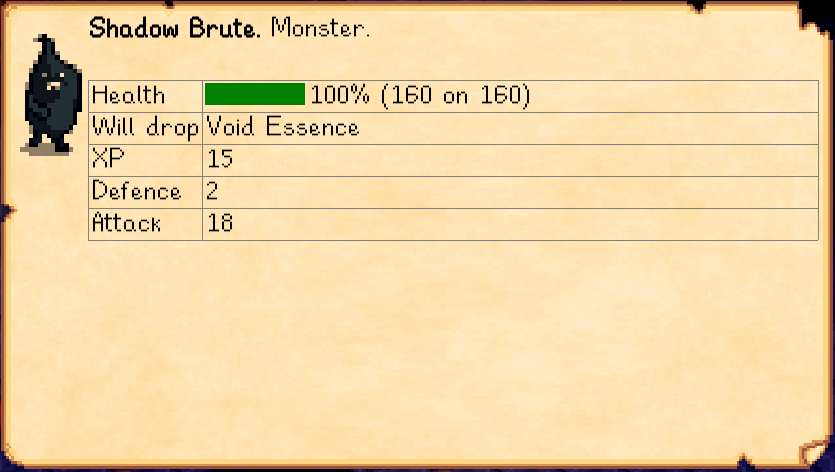
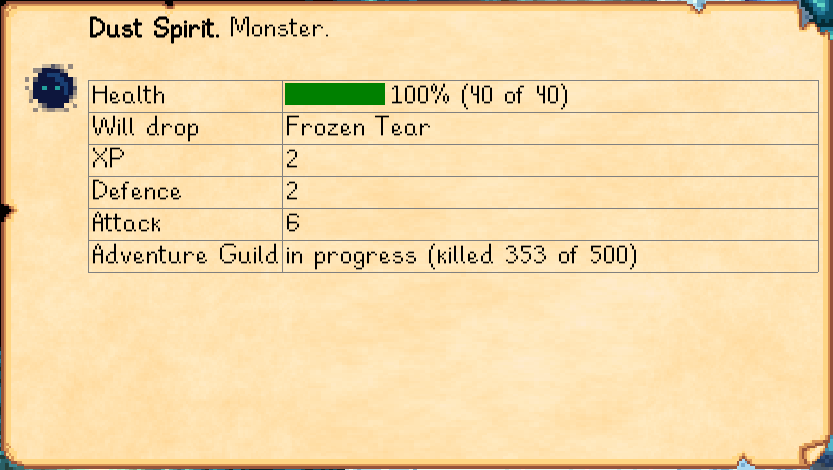
add Adventure Guild quest data for monsters

diff --git a/LookupAnything/Framework/Subjects/CharacterSubject.cs b/LookupAnything/Framework/Subjects/CharacterSubject.cs
@@ -5,6 +5,7 @@ using Microsoft.Xna.Framework;
 using Microsoft.Xna.Framework.Graphics;
 using Pathoschild.LookupAnything.Components;
 using Pathoschild.LookupAnything.Framework.Constants;
+using Pathoschild.LookupAnything.Framework.Data;
 using Pathoschild.LookupAnything.Framework.Fields;
 using StardewValley;
 using StardewValley.Characters;
@@ -13,7 +14,7 @@ using Object = StardewValley.Object;
 
 namespace Pathoschild.LookupAnything.Framework.Subjects
 {
-    /// <summary>Describes an NPC.</summary>
+    /// <summary>Describes an NPC (including villagers, monsters, and pets).</summary>
     public class CharacterSubject : BaseSubject
     {
         /*********
@@ -28,8 +29,9 @@ namespace Pathoschild.LookupAnything.Framework.Subjects
         *********/
         /// <summary>Construct an instance.</summary>
         /// <param name="character">The underlying character.</param>
+        /// <param name="metadata">Provides metadata that's not available from the game data directly.</param>
         /// <remarks>Reverse engineered from <see cref="NPC"/>.</remarks>
-        public CharacterSubject(NPC character)
+        public CharacterSubject(NPC character, Metadata metadata)
             : base(character.getName(), null, "NPC")
         {
             this.Character = character;
@@ -59,17 +61,26 @@ namespace Pathoschild.LookupAnything.Framework.Subjects
             else if (character is Monster)
             {
                 this.Type = "Monster";
-                Monster monster = (Monster)character;
 
+                // basic info
+                Monster monster = (Monster)character;
                 string[] drops = (from id in monster.objectsToDrop let item = GameHelper.GetObjectBySpriteIndex(id) orderby item.Name select item.Name).ToArray();
                 this.AddCustomFields(
                     new GenericField("Invincible", $"For {GameHelper.GetPrivateField<int>(monster, "invincibleCountdown")} seconds", hasValue: monster.isInvincible()),
-                    new PercentageBarField("Health", monster.health, monster.maxHealth, Color.Green, Color.Gray, $"{Math.Round((monster.health / (monster.maxHealth * 1f) * 100))}% ({monster.health} on {monster.maxHealth})"),
+                    new PercentageBarField("Health", monster.health, monster.maxHealth, Color.Green, Color.Gray, $"{Math.Round((monster.health / (monster.maxHealth * 1f) * 100))}% ({monster.health} of {monster.maxHealth})"),
                     new GenericField("Will drop", drops.Any() ? string.Join(", ", drops) : "nothing"),
                     new GenericField("XP", monster.experienceGained),
                     new GenericField("Defence", monster.resilience),
                     new GenericField("Attack", monster.damageToFarmer)
                 );
+
+                // Adventure Guild quest
+                AdventureGuildQuestData adventureGuildQuest = metadata.GetAdventurerGuildQuest(monster.name);
+                if (adventureGuildQuest != null)
+                {
+                    int kills = adventureGuildQuest.Targets.Select(p => Game1.stats.getMonstersKilled(p)).Sum();
+                    this.AddCustomFields(new GenericField("Adventure Guild", $"{(kills >= adventureGuildQuest.RequiredKills ? "complete" : "in progress")} (killed {kills} of {adventureGuildQuest.RequiredKills})"));
+                }
             }
         }
 

diff --git a/LookupAnything/Framework/Metadata.cs b/LookupAnything/Framework/Metadata.cs
@@ -1,4 +1,5 @@
 using System.Collections.Generic;
+using System.Linq;
 using Pathoschild.LookupAnything.Framework.Data;
 using StardewValley;
 
@@ -10,11 +11,14 @@ namespace Pathoschild.LookupAnything.Framework
         /*********
         ** Accessors
         *********/
-        /// <summary>Additional metadata about 'big craftable' objects (including furniture, crafting stations, scarecrows, etc).</summary>
+        /// <summary>Corrects metadata for 'big craftable' objects (including furniture, crafting stations, scarecrows, etc).</summary>
         public IDictionary<int, ObjectData> BigCraftables { get; set; }
 
-        /// <summary>Additional metadata about game items (including inventory items, terrain features, crops, trees, and other map objects).</summary>
+        /// <summary>Corrects metadata for most game objects except <see cref="BigCraftables"/> (including inventory items, terrain features, crops, trees, and other map objects).</summary>
         public IDictionary<int, ObjectData> Objects { get; set; }
+
+        /// <summary>Information about Adventure Guild monster-slaying quests.</summary>
+        public AdventureGuildQuestData[] AdventureGuildQuests { get; set; }
 
 
         /*********
@@ -36,6 +40,13 @@ namespace Pathoschild.LookupAnything.Framework
             return this.Objects.ContainsKey(item.parentSheetIndex)
                 ? this.Objects[item.parentSheetIndex]
                 : null;
+        }
+
+        /// <summary>Get the adventurer guild quest for the specified monster (if any).</summary>
+        /// <param name="monster">The monster name.</param>
+        public AdventureGuildQuestData GetAdventurerGuildQuest(string monster)
+        {
+            return this.AdventureGuildQuests.FirstOrDefault(p => p.Targets.Contains(monster));
         }
     }
 }

diff --git a/LookupAnything/Framework/Data/AdventureGuildQuestData.cs b/LookupAnything/Framework/Data/AdventureGuildQuestData.cs
@@ -1,0 +1,15 @@
+namespace Pathoschild.LookupAnything.Framework.Data
+{
+    /// <summary>Information about an Adventure Guild monster-slaying quest.</summary>
+    public class AdventureGuildQuestData
+    {
+        /// <summary>The name of the monster category.</summary>
+        public string Category { get; set; }
+
+        /// <summary>The names of the monsters in this category.</summary>
+        public string[] Targets { get; set; }
+
+        /// <summary>The number of kills required for the reward.</summary>
+        public int RequiredKills { get; set; }
+    }
+}

diff --git a/LookupAnything/Framework/SubjectFactory.cs b/LookupAnything/Framework/SubjectFactory.cs
@@ -137,11 +137,11 @@ namespace Pathoschild.LookupAnything.Framework
             return new FarmAnimalSubject(animal);
         }
 
-        /// <summary>Get metadata for a Stardew object.</summary>
+        /// <summary>Get metadata for an NPC (including villagers, monsters, and pets).</summary>
         /// <param name="npc">The underlying object.</param>
         public ISubject GetSubject(NPC npc)
         {
-            return new CharacterSubject(npc);
+            return new CharacterSubject(npc, this.Metadata);
         }
     }
 }

diff --git a/README.md b/README.md
@@ -35,7 +35,7 @@ Here are some representative screenshots (layout and values will change dynamica
 | crafting object | ![](screenshots/crafting.png) |
 | fruit tree      | ![](screenshots/fruit-tree.png) |
 | wild tree       | ![](screenshots/wild-tree.png) |
-| mine objects    | ![](screenshots/mine-ore.png) ![](screenshots/mine-stone.png) ![](screenshots/mine-weed.png) ![](screenshots/mine-ice.png) |
+| mine objects    | ![](screenshots/mine-gem.png) ![](screenshots/mine-ore.png) ![](screenshots/mine-stone.png) ![](screenshots/mine-ice.png) |
 | ...             | ![](screenshots/artifact-spot.png) |
 
 ## Changelog
